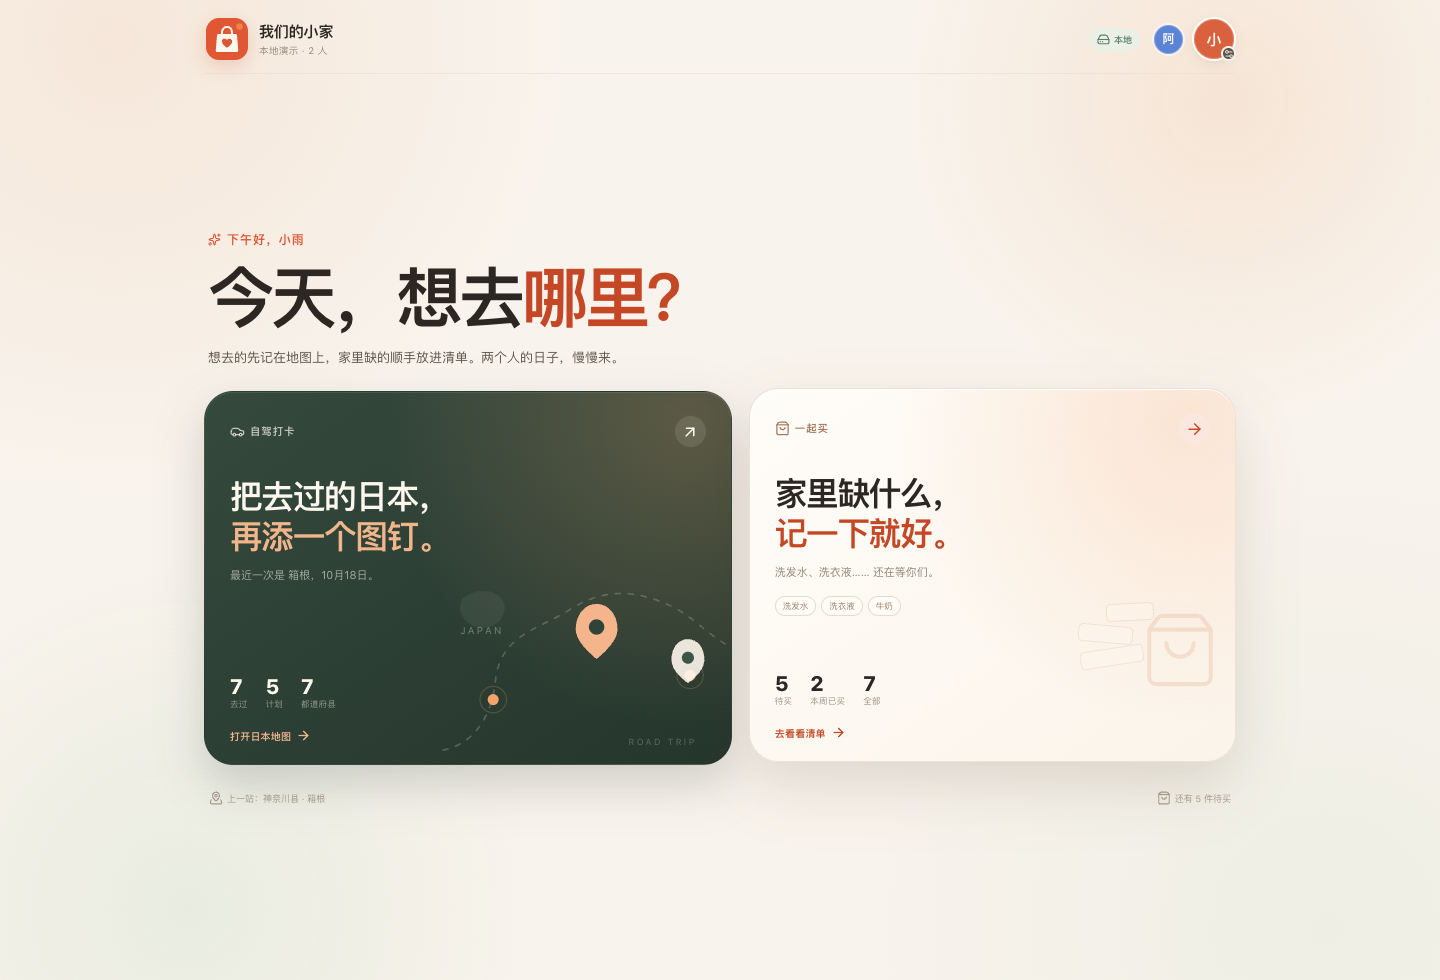
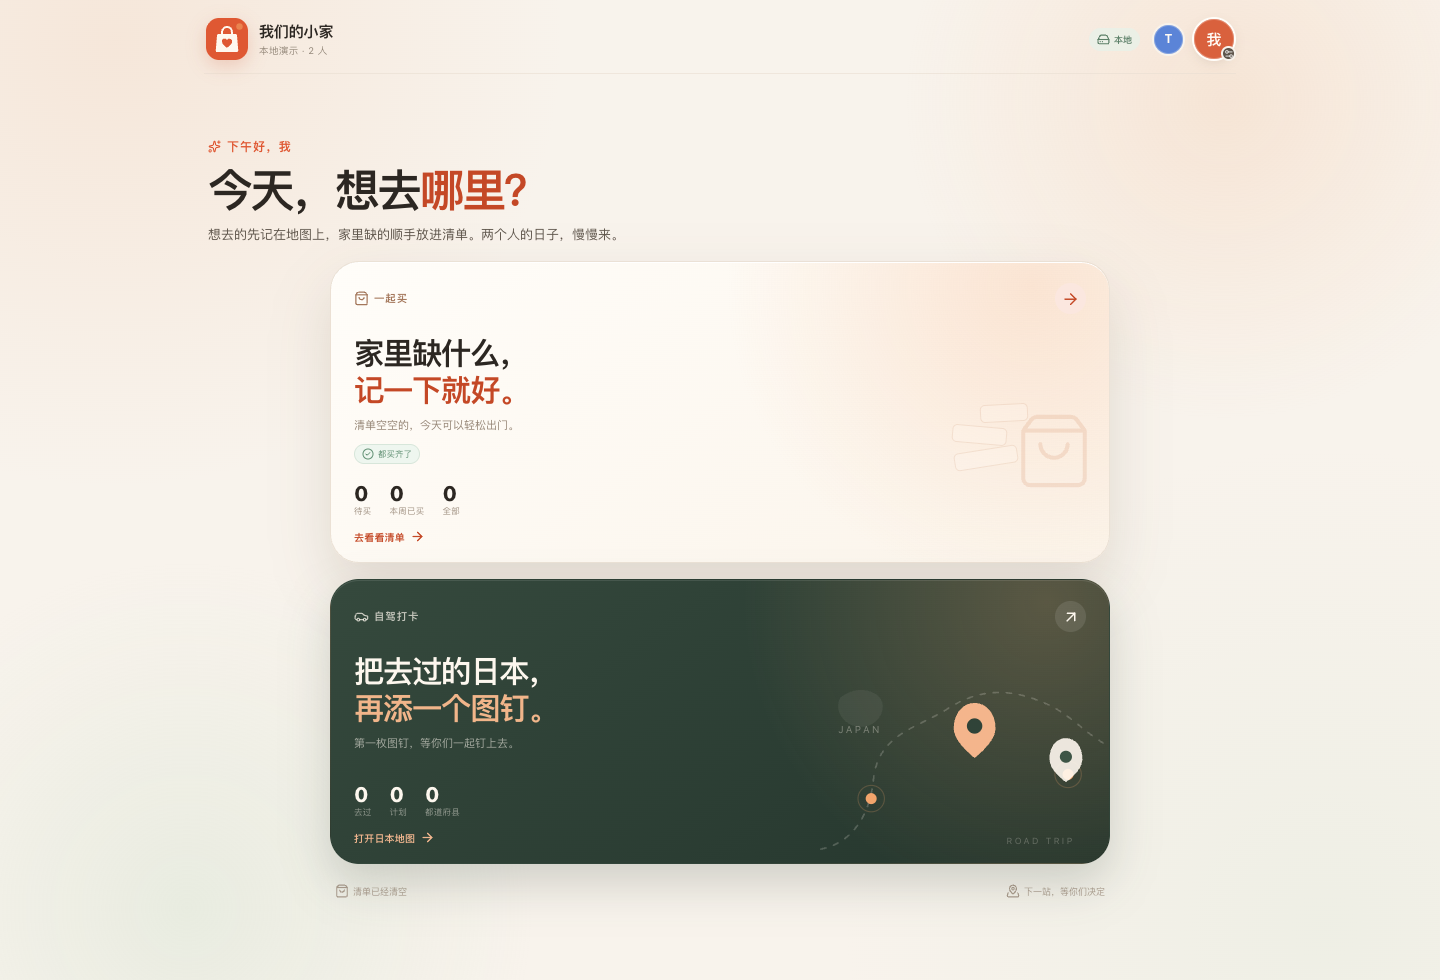
调整首页层级：缩小标题，购物在上、自驾在下

diff --git a/src/components/Hub.tsx b/src/components/Hub.tsx
@@ -138,58 +138,6 @@ export function Hub() {
         <section className="hub-grid" aria-label="选择要进入的小家空间">
           <button
             type="button"
-            className="hub-card hub-card--trip"
-            onClick={() => {
-              window.location.hash = '#/roadtrip';
-            }}
-          >
-            <MapDoodle />
-            <div className="hub-card__top">
-              <span className="hub-card__label">
-                <Car size={15} />
-                自驾打卡
-              </span>
-              <span className="hub-card__arrow">
-                <ArrowUpRight size={18} />
-              </span>
-            </div>
-
-            <div className="hub-card__body">
-              <h2>
-                把去过的日本，
-                <br />
-                <em>再添一个图钉。</em>
-              </h2>
-              <p>
-                {latest
-                  ? `最近一次是 ${latest.name}，${formatShortDate(latest.visitedOn)}。`
-                  : '第一枚图钉，等你们一起钉上去。'}
-              </p>
-            </div>
-
-            <div className="hub-card__stats">
-              <span>
-                <strong>{stats.visited}</strong>
-                去过
-              </span>
-              <span>
-                <strong>{stats.planned}</strong>
-                计划
-              </span>
-              <span>
-                <strong>{stats.prefectureCount}</strong>
-                都道府县
-              </span>
-            </div>
-
-            <span className="hub-card__cta">
-              打开日本地图
-              <ArrowRight size={15} />
-            </span>
-          </button>
-
-          <button
-            type="button"
             className="hub-card hub-card--shop"
             onClick={() => {
               window.location.hash = '#/shopping';
@@ -258,16 +206,68 @@ export function Hub() {
               <ArrowRight size={15} />
             </span>
           </button>
+
+          <button
+            type="button"
+            className="hub-card hub-card--trip"
+            onClick={() => {
+              window.location.hash = '#/roadtrip';
+            }}
+          >
+            <MapDoodle />
+            <div className="hub-card__top">
+              <span className="hub-card__label">
+                <Car size={15} />
+                自驾打卡
+              </span>
+              <span className="hub-card__arrow">
+                <ArrowUpRight size={18} />
+              </span>
+            </div>
+
+            <div className="hub-card__body">
+              <h2>
+                把去过的日本，
+                <br />
+                <em>再添一个图钉。</em>
+              </h2>
+              <p>
+                {latest
+                  ? `最近一次是 ${latest.name}，${formatShortDate(latest.visitedOn)}。`
+                  : '第一枚图钉，等你们一起钉上去。'}
+              </p>
+            </div>
+
+            <div className="hub-card__stats">
+              <span>
+                <strong>{stats.visited}</strong>
+                去过
+              </span>
+              <span>
+                <strong>{stats.planned}</strong>
+                计划
+              </span>
+              <span>
+                <strong>{stats.prefectureCount}</strong>
+                都道府县
+              </span>
+            </div>
+
+            <span className="hub-card__cta">
+              打开日本地图
+              <ArrowRight size={15} />
+            </span>
+          </button>
         </section>
 
         <footer className="hub-footer">
           <span>
-            <MapPinned size={14} />
-            {latest ? `上一站：${latest.prefectureName} · ${latest.name}` : '下一站，等你们决定'}
-          </span>
-          <span>
             <ShoppingBag size={14} />
             {pending.length > 0 ? `还有 ${pending.length} 件待买` : '清单已经清空'}
+          </span>
+          <span>
+            <MapPinned size={14} />
+            {latest ? `上一站：${latest.prefectureName} · ${latest.name}` : '下一站，等你们决定'}
           </span>
         </footer>
       </main>

diff --git a/src/styles.css b/src/styles.css
@@ -4825,19 +4825,19 @@ p {
   z-index: 1;
   display: flex;
   flex-direction: column;
-  gap: 22px;
-  padding-top: 38px;
+  gap: 18px;
+  padding-top: 24px;
 }
 
 .hub-hero {
-  max-width: 740px;
+  max-width: 700px;
   padding: 0 4px;
   animation: fadeUp 0.45s ease both;
 }
 
 .hub-hero h1 {
-  margin: 12px 0 14px;
-  font-size: clamp(2.65rem, 5vw, 4.15rem);
+  margin: 9px 0 10px;
+  font-size: clamp(2.05rem, 3.2vw, 2.8rem);
   font-weight: 800;
   letter-spacing: -0.055em;
   line-height: 1.08;
@@ -4857,17 +4857,20 @@ p {
 
 .hub-grid {
   display: grid;
-  grid-template-columns: minmax(0, 1.04fr) minmax(0, 0.96fr);
-  gap: 17px;
+  grid-template-columns: minmax(0, 1fr);
+  gap: 13px;
+  width: 100%;
+  max-width: 780px;
+  margin: 0 auto;
 }
 
 .hub-card {
   position: relative;
   display: flex;
   flex-direction: column;
-  min-height: 374px;
+  min-height: 285px;
   overflow: hidden;
-  padding: 24px 25px 21px;
+  padding: 21px 23px 18px;
   border: 1px solid transparent;
   border-radius: 29px;
   text-align: left;
@@ -4976,13 +4979,13 @@ p {
 .hub-card__body {
   position: relative;
   z-index: 2;
-  max-width: 360px;
-  margin-top: 29px;
+  max-width: 400px;
+  margin-top: 20px;
 }
 
 .hub-card__body h2 {
-  margin: 0 0 10px;
-  font-size: clamp(1.55rem, 2.4vw, 2.05rem);
+  margin: 0 0 8px;
+  font-size: clamp(1.5rem, 2.2vw, 1.9rem);
   font-weight: 800;
   letter-spacing: -0.045em;
   line-height: 1.22;
@@ -5018,7 +5021,7 @@ p {
   display: flex;
   gap: 18px;
   margin-top: auto;
-  padding-top: 27px;
+  padding-top: 18px;
 }
 
 .hub-card__stats span {
@@ -5058,7 +5061,7 @@ p {
   display: inline-flex;
   align-items: center;
   gap: 5px;
-  margin-top: 18px;
+  margin-top: 12px;
   font-size: 10px;
   font-weight: 700;
   letter-spacing: 0.02em;
@@ -5121,7 +5124,7 @@ p {
   display: flex;
   flex-wrap: wrap;
   gap: 5px;
-  margin-top: 15px;
+  margin-top: 10px;
 }
 
 .hub-shop-chips span {
@@ -5147,7 +5150,10 @@ p {
   align-items: center;
   justify-content: space-between;
   gap: 14px;
-  padding: 4px 5px 0;
+  width: 100%;
+  max-width: 780px;
+  margin: 0 auto;
+  padding: 2px 5px 0;
   color: #ab9c8d;
   font-size: 9px;
 }
@@ -5164,12 +5170,12 @@ p {
   }
 
   .hub-main {
-    padding-top: 29px;
-    gap: 17px;
+    padding-top: 20px;
+    gap: 14px;
   }
 
   .hub-hero h1 {
-    font-size: clamp(2.15rem, 7vw, 3rem);
+    font-size: clamp(1.95rem, 6vw, 2.55rem);
   }
 
   .hub-grid {
@@ -5178,8 +5184,8 @@ p {
   }
 
   .hub-card {
-    min-height: 300px;
-    padding: 20px 20px 18px;
+    min-height: 270px;
+    padding: 18px 19px 17px;
     border-radius: 23px;
   }
 
@@ -5264,8 +5270,8 @@ p {
   }
 
   .hub-hero h1 {
-    margin: 9px 0 10px;
-    font-size: clamp(2rem, 10vw, 2.6rem);
+    margin: 8px 0 8px;
+    font-size: clamp(1.8rem, 8.5vw, 2.25rem);
   }
 
   .hub-hero p {
@@ -5273,8 +5279,8 @@ p {
   }
 
   .hub-card {
-    min-height: 280px;
-    padding: 18px 17px 16px;
+    min-height: 255px;
+    padding: 16px 16px 15px;
     border-radius: 21px;
   }
 
@@ -5334,8 +5340,8 @@ p {
 @media (min-width: 901px) {
   .hub-main {
     min-height: calc(100dvh - 92px);
-    padding-top: 20px;
-    padding-bottom: 20px;
+    padding-top: 14px;
+    padding-bottom: 14px;
     justify-content: center;
   }
 }
